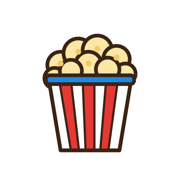
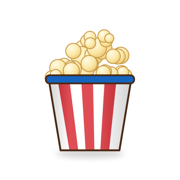
Version 2.4.0: Produktbilder plastischer (Verläufe, Glanz, Struktur, Schatten)
- Alle 20 eigenen SVG-Bilder neu gezeichnet: lebensechter, feinere Umrisse
- Wurst als Bratwurst im aufgeschnittenen Brötchen
- App-Symbol aus dem neuen Popcorn-Bild

Changed region(s): [[0.2222, 0.1389, 0.7778, 0.8889]]

diff --git a/index.html b/index.html
@@ -740,7 +740,7 @@ dialog::backdrop { background: rgba(20, 15, 10, .55); }
 <script src="erkennung.js"></script>
 <script>
 'use strict';
-const VERSION = '2.3.0';
+const VERSION = '2.4.0';
 const STAND = '20.10.2026';
 
 // ---------------------------------------------------------------------------

diff --git a/sw.js b/sw.js
@@ -4,7 +4,7 @@
  * Bilder und Schriften: aus dem Speicher (ändern sich nicht).
  * Bei einer neuen Version VERSION erhöhen – dann wird alles neu geladen.
  */
-const VERSION = '2.3.0';
+const VERSION = '2.4.0';
 const CACHE = 'kirmes-kiosk-' + VERSION;
 const DATEIEN = [
   './',
